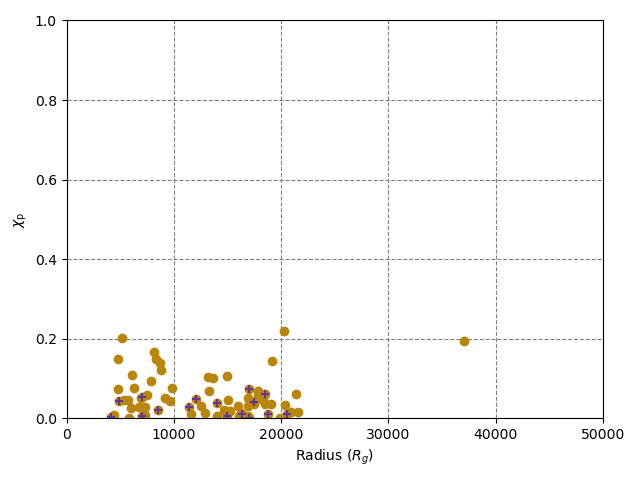
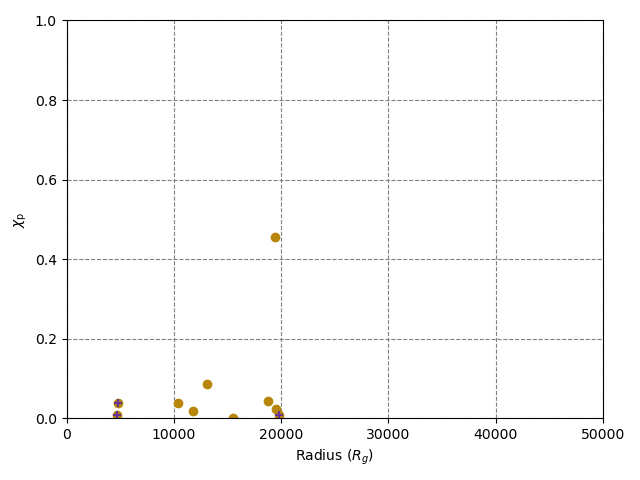
Retros now comprehensively tracked (I think)

diff --git a/scripts/mcfacts_sim.py b/scripts/mcfacts_sim.py
@@ -1015,8 +1015,7 @@ def main():
             # e.g at 25R_g, decay time is only 2.3Myr.
             min_safe_distance = 50.0
             inner_disk_indices = np.where(prograde_bh_locations < min_safe_distance)
-            # SF: adding retros... not sure if it works yet tho...
-            # May need to treat retro inner disk separately too???
+            # adding retros too
             retro_inner_disk_indices = np.where(retrograde_bh_locations < min_safe_distance)
             #retrograde_orb_ang_mom_indices = np.where(bh_orb_ang_mom_indices == -1)
             #print("inner disk indices",inner_disk_indices)
@@ -1063,31 +1062,12 @@ def main():
                 # Empty disk_indices array
                 empty=[]
                 retro_inner_disk_indices = np.array(empty)
-
-
+            
             if np.size(inner_disk_locations) > 0:
                 inner_disk_locations = dynamics.bh_near_smbh(opts.mass_smbh,inner_disk_locations,inner_disk_masses,inner_disk_orb_ecc,opts.timestep)
                 emri_gw_strain,emri_gw_freq = evolve.evolve_emri_gw(inner_disk_locations,inner_disk_masses,opts.mass_smbh)
                 #print("EMRI gw strain",emri_gw_strain)
                 #print("EMRI gw freq",emri_gw_freq)
-            
-            # if inner_disk_locations[i] <1R_g then merger!
-            inner_disk_index = -2
-            num_in_inner_disk = np.size(inner_disk_locations)
-            for j in range(0,num_in_inner_disk):
-                if inner_disk_locations[j] <= 1.0:
-                #    print("EMRI merger!!")
-                    inner_disk_index = j
-            
-            if inner_disk_index > -2:                
-                inner_disk_locations = np.delete(inner_disk_locations,inner_disk_index)
-                inner_disk_masses = np.delete(inner_disk_masses,inner_disk_index)
-                inner_disk_spins = np.delete(inner_disk_spins,inner_disk_index)
-                inner_disk_spin_angles = np.delete(inner_disk_spin_angles,inner_disk_index)
-                inner_disk_orb_ecc = np.delete(inner_disk_orb_ecc,inner_disk_index)
-                inner_disk_orb_inc = np.delete(inner_disk_orb_inc,inner_disk_index)
-                inner_disk_gens = np.delete(inner_disk_gens,inner_disk_index)
-
 
             num_in_inner_disk = np.size(inner_disk_locations)
             nemri = nemri + num_in_inner_disk
@@ -1105,12 +1085,54 @@ def main():
                     #print("emri_array",emri_array)
                     emri_array = np.vstack((emri_array,temp_emri_array))
                 
+            # if inner_disk_locations[i] <1R_g then merger!
+            merger_dist = 1.0
+            emri_merger_indices = np.where(inner_disk_locations <= merger_dist)
             
-
+            # if mergers occurs, remove from inner_disk arrays and stop evolving
+            # still getting some nans, but I think that's bc there's retros that should have been
+            #  moved to prograde arrays
+            if np.size(emri_merger_indices) > 0:      
+                inner_disk_locations = np.delete(inner_disk_locations, emri_merger_indices)
+                inner_disk_masses = np.delete(inner_disk_masses, emri_merger_indices)
+                inner_disk_spins = np.delete(inner_disk_spins, emri_merger_indices)
+                inner_disk_spin_angles = np.delete(inner_disk_spin_angles, emri_merger_indices)
+                inner_disk_orb_ecc = np.delete(inner_disk_orb_ecc, emri_merger_indices)
+                inner_disk_orb_inc = np.delete(inner_disk_orb_inc, emri_merger_indices)
+                inner_disk_gens = np.delete(inner_disk_gens, emri_merger_indices)
+            # Empty emri_merger_indices array
+            empty=[]
+            emri_merger_indices = np.array(empty)
+            
             # Here is where we need to move retro to prograde if they've flipped in this timestep
-            # SF: !!!
-
-
+            # If they're IN the disk prograde, OR if they've circularized:
+            # stop treating them with crude retro evolution--it will be sad
+            # SF: fix the inc threshhold later!!!
+            inc_threshhold = 5.0 * np.pi/180.0
+            flip_to_prograde_indices = np.where((np.abs(retrograde_bh_orb_incl) <= inc_threshhold) | (retrograde_bh_orb_ecc == 0.0))
+            if np.size(flip_to_prograde_indices) > 0:
+                # add to prograde arrays
+                prograde_bh_locations = np.append(prograde_bh_locations,retrograde_bh_locations[flip_to_prograde_indices])
+                prograde_bh_masses = np.append(prograde_bh_masses, retrograde_bh_masses[flip_to_prograde_indices])
+                prograde_bh_spins = np.append(prograde_bh_spins, retrograde_bh_spins[flip_to_prograde_indices])
+                prograde_bh_spin_angles = np.append(prograde_bh_spin_angles, retrograde_bh_spin_angles[flip_to_prograde_indices])
+                prograde_bh_orb_ecc = np.append(prograde_bh_orb_ecc, retrograde_bh_orb_ecc[flip_to_prograde_indices])
+                prograde_bh_orb_incl = np.append(prograde_bh_orb_incl, retrograde_bh_orb_incl[flip_to_prograde_indices])
+                prograde_bh_orb_arg_periapse = np.append(prograde_bh_orb_arg_periapse, retrograde_bh_orb_arg_periapse[flip_to_prograde_indices])
+                prograde_bh_generations = np.append(prograde_bh_generations, retrograde_bh_generations[flip_to_prograde_indices])
+                # delete from retro arrays
+                retrograde_bh_locations = np.delete(retrograde_bh_locations,flip_to_prograde_indices)
+                retrograde_bh_masses = np.delete(retrograde_bh_masses,flip_to_prograde_indices)
+                retrograde_bh_spins = np.delete(retrograde_bh_spins,flip_to_prograde_indices)
+                retrograde_bh_spin_angles = np.delete(retrograde_bh_spin_angles,flip_to_prograde_indices)
+                retrograde_bh_orb_ecc = np.delete(retrograde_bh_orb_ecc,flip_to_prograde_indices)
+                retrograde_bh_orb_incl = np.delete(retrograde_bh_orb_incl,flip_to_prograde_indices)
+                retrograde_bh_orb_arg_periapse = np.delete(retrograde_bh_orb_arg_periapse,flip_to_prograde_indices)
+                retrograde_bh_generations = np.delete(retrograde_bh_generations,flip_to_prograde_indices)
+            # empty array for flipping to prograde
+            empty=[]
+            flip_to_prograde_indices = np.array(empty)
+            
             #binary_bh_array = dynamics.bbh_near_smbh(opts.mass_smbh,bin_index,binary_bh_array)
             
             #Iterate the time step

diff --git a/src/mcfacts/physics/dynamics/dynamics.py b/src/mcfacts/physics/dynamics/dynamics.py
@@ -1056,7 +1056,7 @@ def bh_near_smbh(mass_smbh,prograde_bh_locations,prograde_bh_masses,prograde_bh_
                 new_location = 1.0
 
             prograde_bh_locations[i] = new_location
-    
+
     return prograde_bh_locations
 
 def bbh_near_smbh(mass_smbh,bindex, binary_bh_array):
